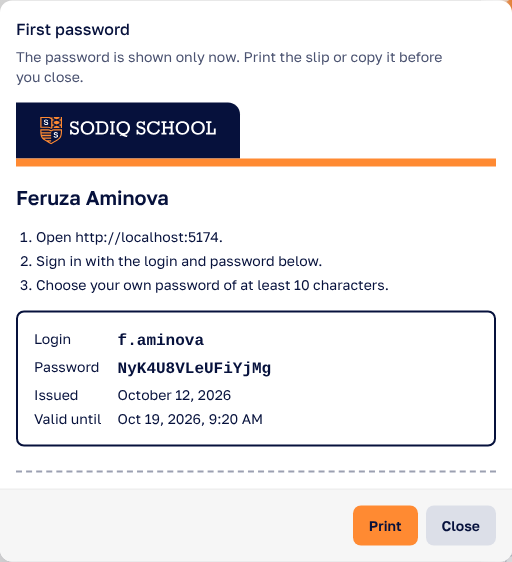
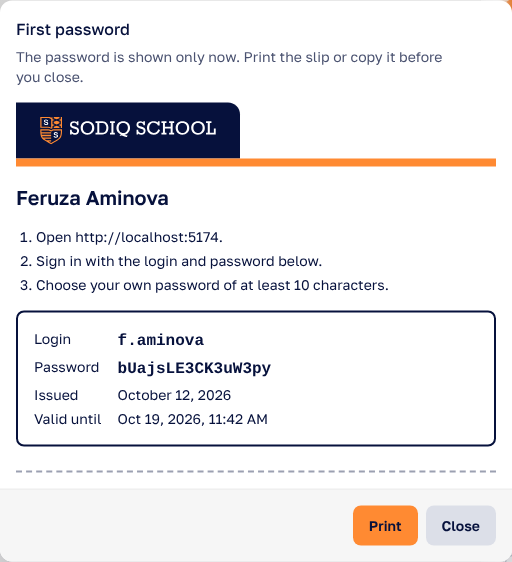
2.3b-1 Test the appointment of a Head Teacher in the browser
Claude-Session: https://claude.ai/code/session_01CW5pgt6UGhwfPFvXrsof22

Changed region(s): [[0.2188, 0.6352, 0.5312, 0.6655], [0.4062, 0.726, 0.5312, 0.7562]]

diff --git a/apps/web/e2e/setup.spec.ts b/apps/web/e2e/setup.spec.ts
@@ -137,7 +137,7 @@ test('the Super Admin edits the branch, adds a building, a floor and a room, and
 // "Other divisions are data. The Super Admin adds, renames and archives them";
 // departments archived with their division (decided by the owner, pull
 // request #40, answer 4).
-test('the Super Admin sees Academic as built in, adds a division with a department, renames the department and archives the division with it, then creates an account and gives a role', async ({
+test('the Super Admin sees Academic as built in, adds a division with a department, renames the department and archives the division with it, then creates an account, gives a role and appoints a Head Teacher', async ({
   page,
 }) => {
   test.setTimeout(150_000);
@@ -195,6 +195,9 @@ test('the Super Admin sees Academic as built in, adds a division with a departme
 
   await test.step('creates an account, gives a role and signs in with the slip', () =>
     createAccountAndSignIn(page));
+
+  await test.step('appoints a Head Teacher of two subjects and is refused a second one', () =>
+    appointHeadTeachers(page));
 });
 
 // Task 2.3a, pull request #62: the account section of a staff record. With
@@ -265,6 +268,66 @@ async function createAccountAndSignIn(page: Page): Promise<void> {
     'Feruza Aminova',
   );
   await other.close();
+}
+
+// Task 2.3b-1, pull request #63: Head Teacher appointments. With
+// SCREENSHOTS=1 the account section is saved under docs/screens/2.3b-1/.
+const APPOINTMENT_SCREENS = path.join(import.meta.dirname, '../../../docs/screens/2.3b-1');
+
+/** The give form of the account section of a person in the open staff list. */
+async function giveFormOf(page: Page, name: string) {
+  await page.getByRole('button', { name, exact: true }).click();
+  const panel = page.getByRole('complementary', { name });
+  const section = panel.getByRole('region', { name: en.people.account.title });
+  const give = section.getByRole('form', {
+    name: en.people.account.giveOf.replace('{{name}}', name),
+  });
+  return { section, give };
+}
+
+/**
+ * The Super Admin appoints Rustam Nazarov Head Teacher of Algebra and
+ * Trigonometry in the branch, and is refused Saida Yusupova as a second Head
+ * Teacher of Algebra (`02`, One per subject per branch). Runs in the session
+ * of the divisions test, after the account test, for the same reason.
+ */
+async function appointHeadTeachers(page: Page): Promise<void> {
+  await page.goto('/people/staff');
+  await page
+    .getByRole('combobox', { name: en.switcher.branch, exact: true })
+    .selectOption({ label: 'Accounts browser test branch' });
+  await expect(heading(page, en.people.staff.title)).toBeVisible();
+
+  const first = await giveFormOf(page, 'Rustam Nazarov');
+  await first.give
+    .getByLabel(en.people.account.newRole, { exact: true })
+    .selectOption('head_teacher');
+  const subjects = first.give.getByRole('group', { name: en.people.account.subjects });
+  await subjects.getByLabel('Algebra', { exact: true }).check();
+  await subjects.getByLabel('Trigonometry', { exact: true }).check();
+  await first.give.getByRole('button', { name: en.form.save, exact: true }).click();
+  const row = first.section.locator('tr[data-role="head_teacher"]');
+  await expect(row).toContainText(en.people.account.states.current);
+  await expect(row.locator('[data-subjects]')).toHaveText('Algebra, Trigonometry');
+  if (process.env.SCREENSHOTS === '1') {
+    mkdirSync(APPOINTMENT_SCREENS, { recursive: true });
+    await first.section.screenshot({ path: path.join(APPOINTMENT_SCREENS, 'appointment.png') });
+  }
+
+  const second = await giveFormOf(page, 'Saida Yusupova');
+  await second.give
+    .getByLabel(en.people.account.newRole, { exact: true })
+    .selectOption('head_teacher');
+  await second.give
+    .getByRole('group', { name: en.people.account.subjects })
+    .getByLabel('Algebra', { exact: true })
+    .check();
+  await second.give.getByRole('button', { name: en.form.save, exact: true }).click();
+  await expect(second.give.getByText(en.errors.head_teacher_taken)).toBeVisible();
+  await expect(second.section.locator('tr[data-role="head_teacher"]')).toHaveCount(0);
+  if (process.env.SCREENSHOTS === '1') {
+    await second.section.screenshot({ path: path.join(APPOINTMENT_SCREENS, 'refused.png') });
+  }
 }
 
 /** A school date `days` from today in the branch's time zone (`edge/00-definitions`, Branch time). */

diff --git a/apps/api/src/testing/e2e/seed.ts b/apps/api/src/testing/e2e/seed.ts
@@ -396,6 +396,67 @@ try {
       .execute();
   });
 
+  // Two people with accounts and two subjects in the same branch, for the
+  // Head Teacher appointments of task 2.3b-1: the divisions test's Super Admin
+  // appoints the first and is refused a second Head Teacher of a subject.
+  for (const [n, first, last, phone] of [
+    [1, 'Rustam', 'Nazarov', '+998935550102'],
+    [2, 'Saida', 'Yusupova', '+998935550103'],
+  ] as const) {
+    const account = await create(first, last);
+    await migrator.transaction().execute(async (transaction) => {
+      const person = await transaction
+        .insertInto('staff')
+        .values({
+          kind: 'person',
+          staff_id: `S-26902${String(n)}`,
+          first_name: first,
+          last_name: last,
+          sex: n === 1 ? 'male' : 'female',
+          birth_date: '1985-05-20',
+          phone,
+          admission_date: '2026-09-01',
+          account_id: account.id,
+        })
+        .returning('id')
+        .executeTakeFirstOrThrow();
+      await transaction
+        .insertInto('staff_branches')
+        .values({ staff_id: person.id, branch_id: accountsBranch, is_main: true })
+        .execute();
+      await transaction
+        .insertInto('staff_divisions')
+        .values({
+          staff_id: person.id,
+          division_id: academic.id,
+          department_id: steam.id,
+          is_main: true,
+        })
+        .execute();
+      await transaction
+        .insertInto('staff_statuses')
+        .values({ staff_id: person.id, status: 'active', valid_from: '2026-09-01' })
+        .execute();
+    });
+  }
+  for (const [uz, ru, enName] of [
+    ['Algebra', 'Алгебра', 'Algebra'],
+    ['Trigonometriya', 'Тригонометрия', 'Trigonometry'],
+  ] as const) {
+    await migrator
+      .insertInto('subjects')
+      .values({
+        name_uz: uz,
+        name_ru: ru,
+        name_en: enName,
+        department_id: steam.id,
+        grades: [9, 10, 11],
+        colour: 'indigo',
+        journal_type: 'graded',
+      })
+      .execute();
+  }
+
   // A second Academic Vice Principal of that branch exports its staff list
   // (task 2.2c-1); the export reads and changes nothing.
   const staffExport = await create('Kamola', 'Rasulova');
